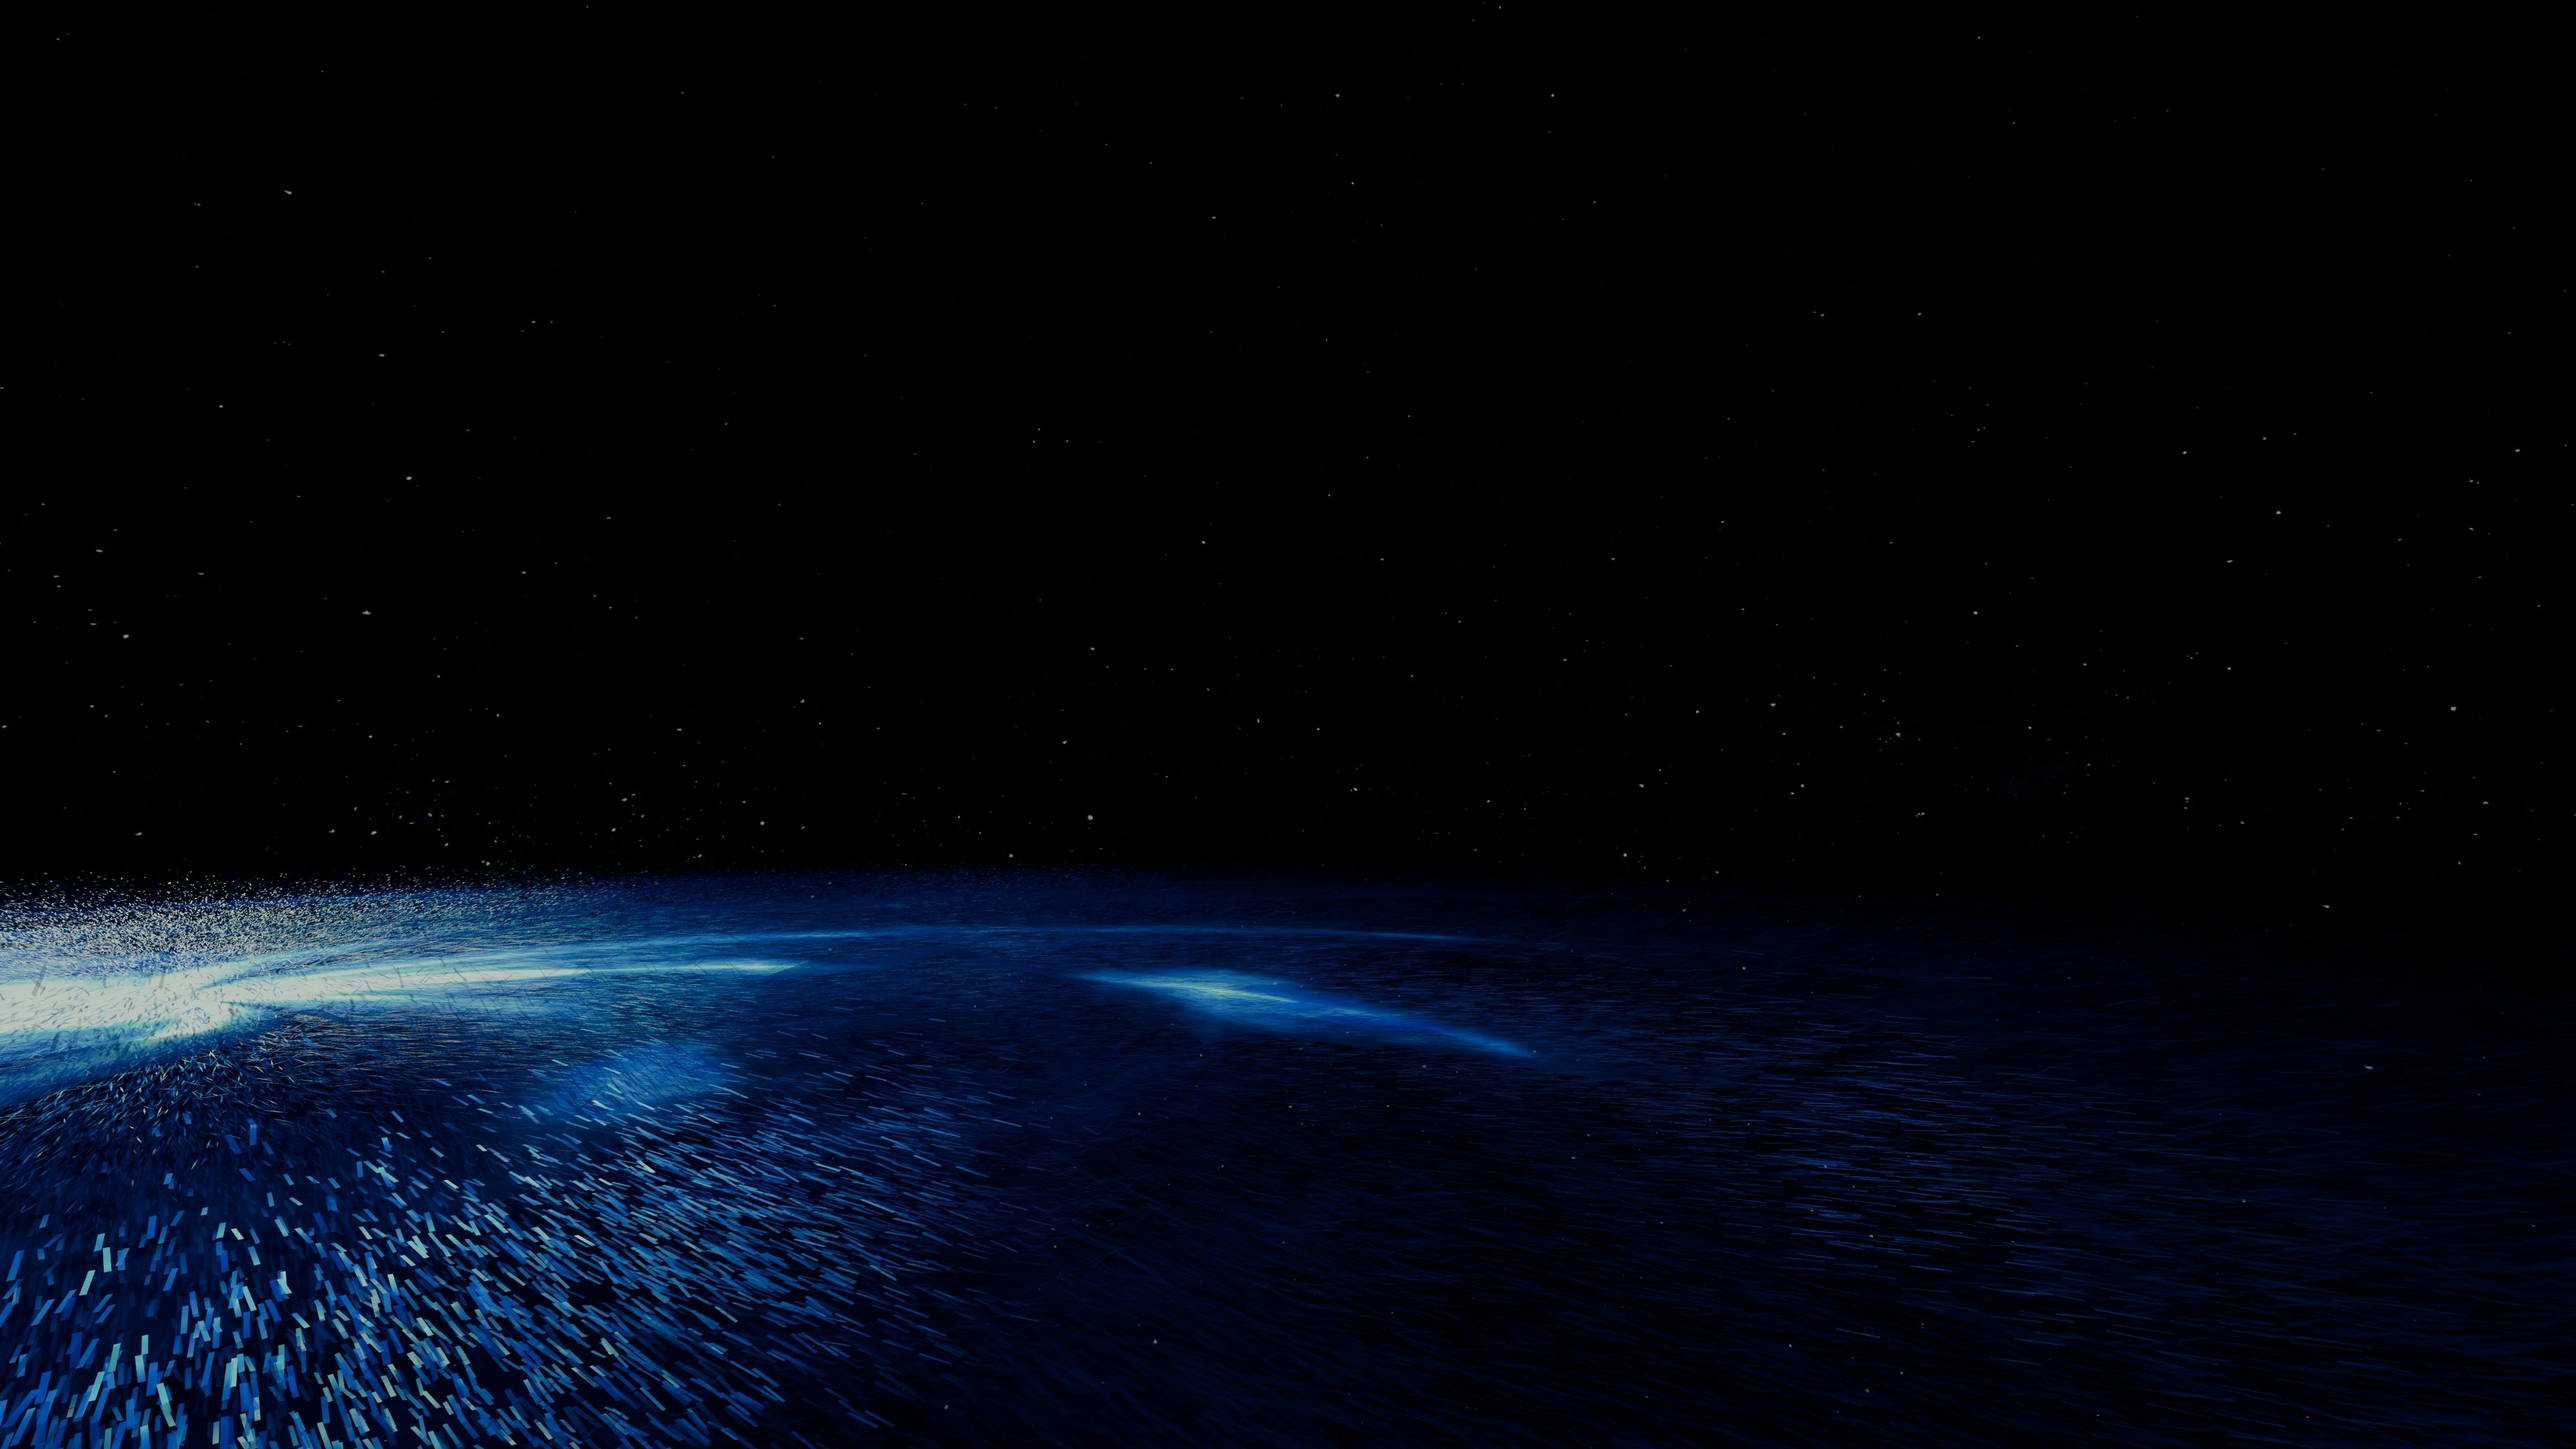
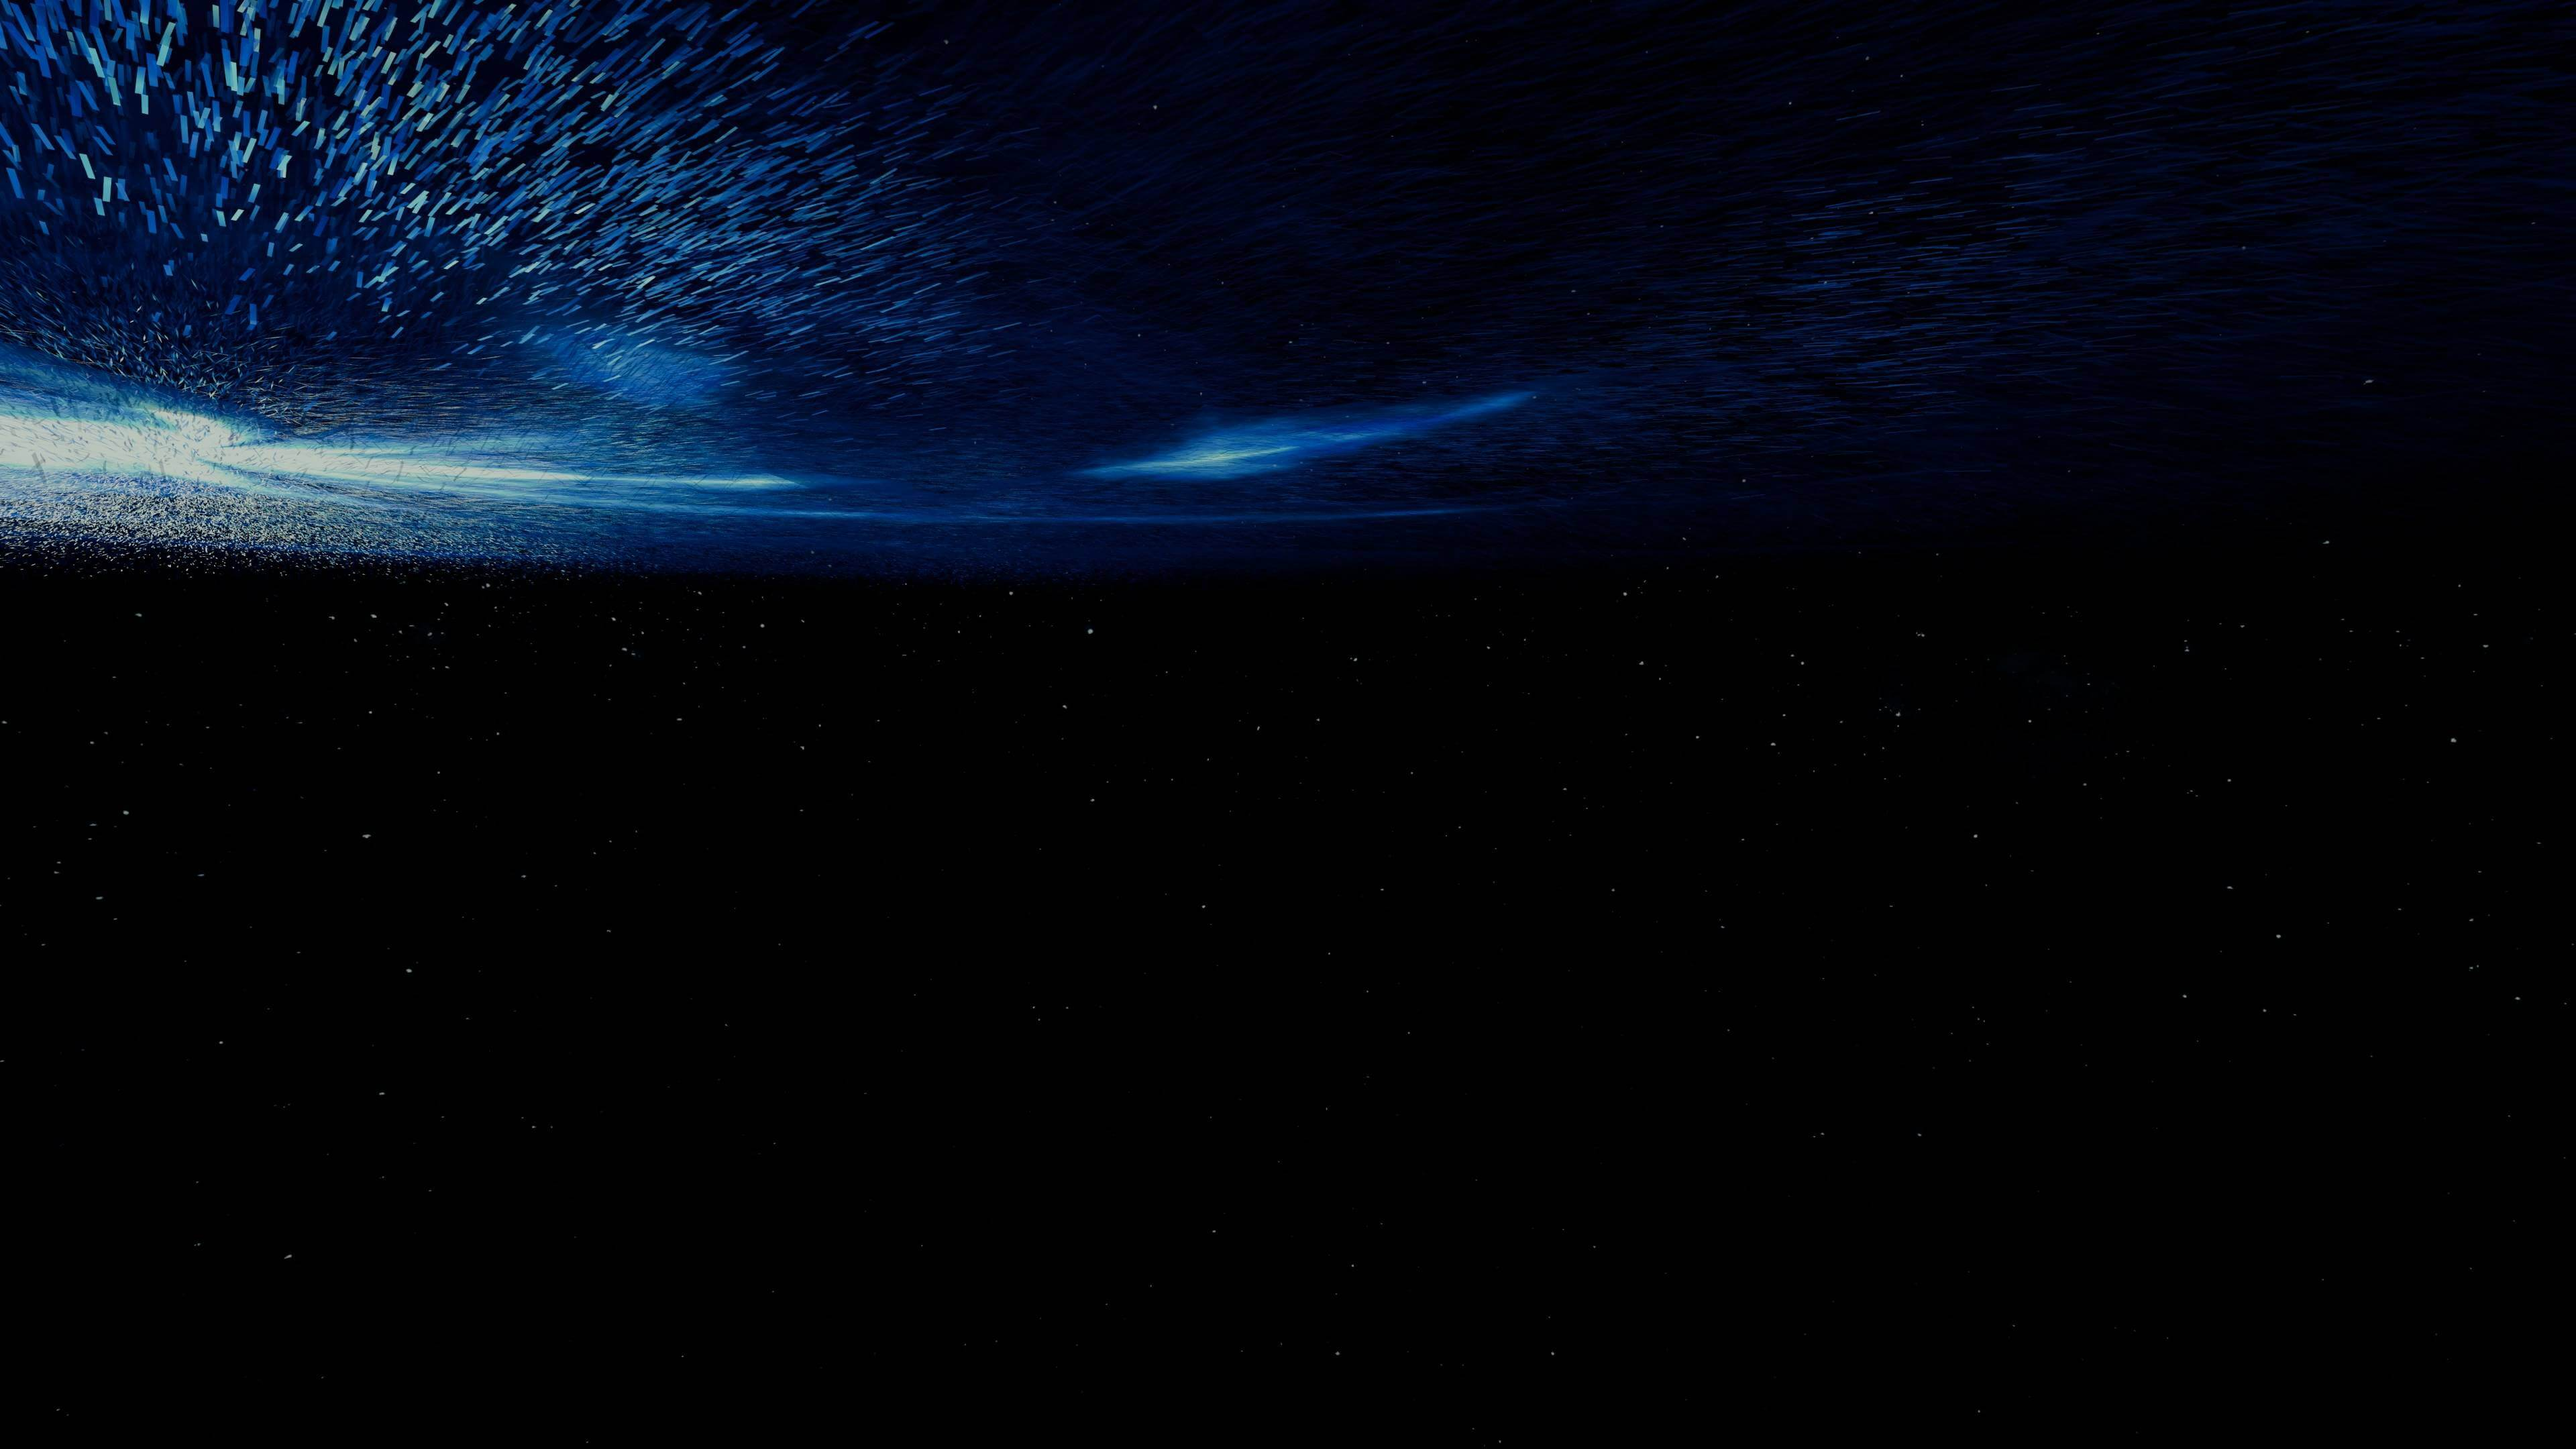
hero fix

diff --git a/src/components/Hero/Hero.styled.js b/src/components/Hero/Hero.styled.js
@@ -15,7 +15,7 @@ export const StyledSection = styled.section`
     left: 0;
     width: 100%;
     height: 100%;
-    background: url("${background}") no-repeat center center;
+    background: url("${background}") no-repeat top center;
     background-size: cover;
     animation: zoom 50s infinite alternate;
     animation-timing-function: linear;

diff --git a/src/themes/commonTheme.js b/src/themes/commonTheme.js
@@ -16,7 +16,7 @@ export const breakpoints = {
 const themes = {
   primaryColor: "#e57a99",
   textColor: "#fcfff7",
-  accentColor: "#ff944e",
+  accentColor: "#4CC9F0", //vivid sky blue
   navBarBgColor: "#010109",
   scrollBarBGColor: "#010109",
   scrollBarBGColorThumb: "#003049",
